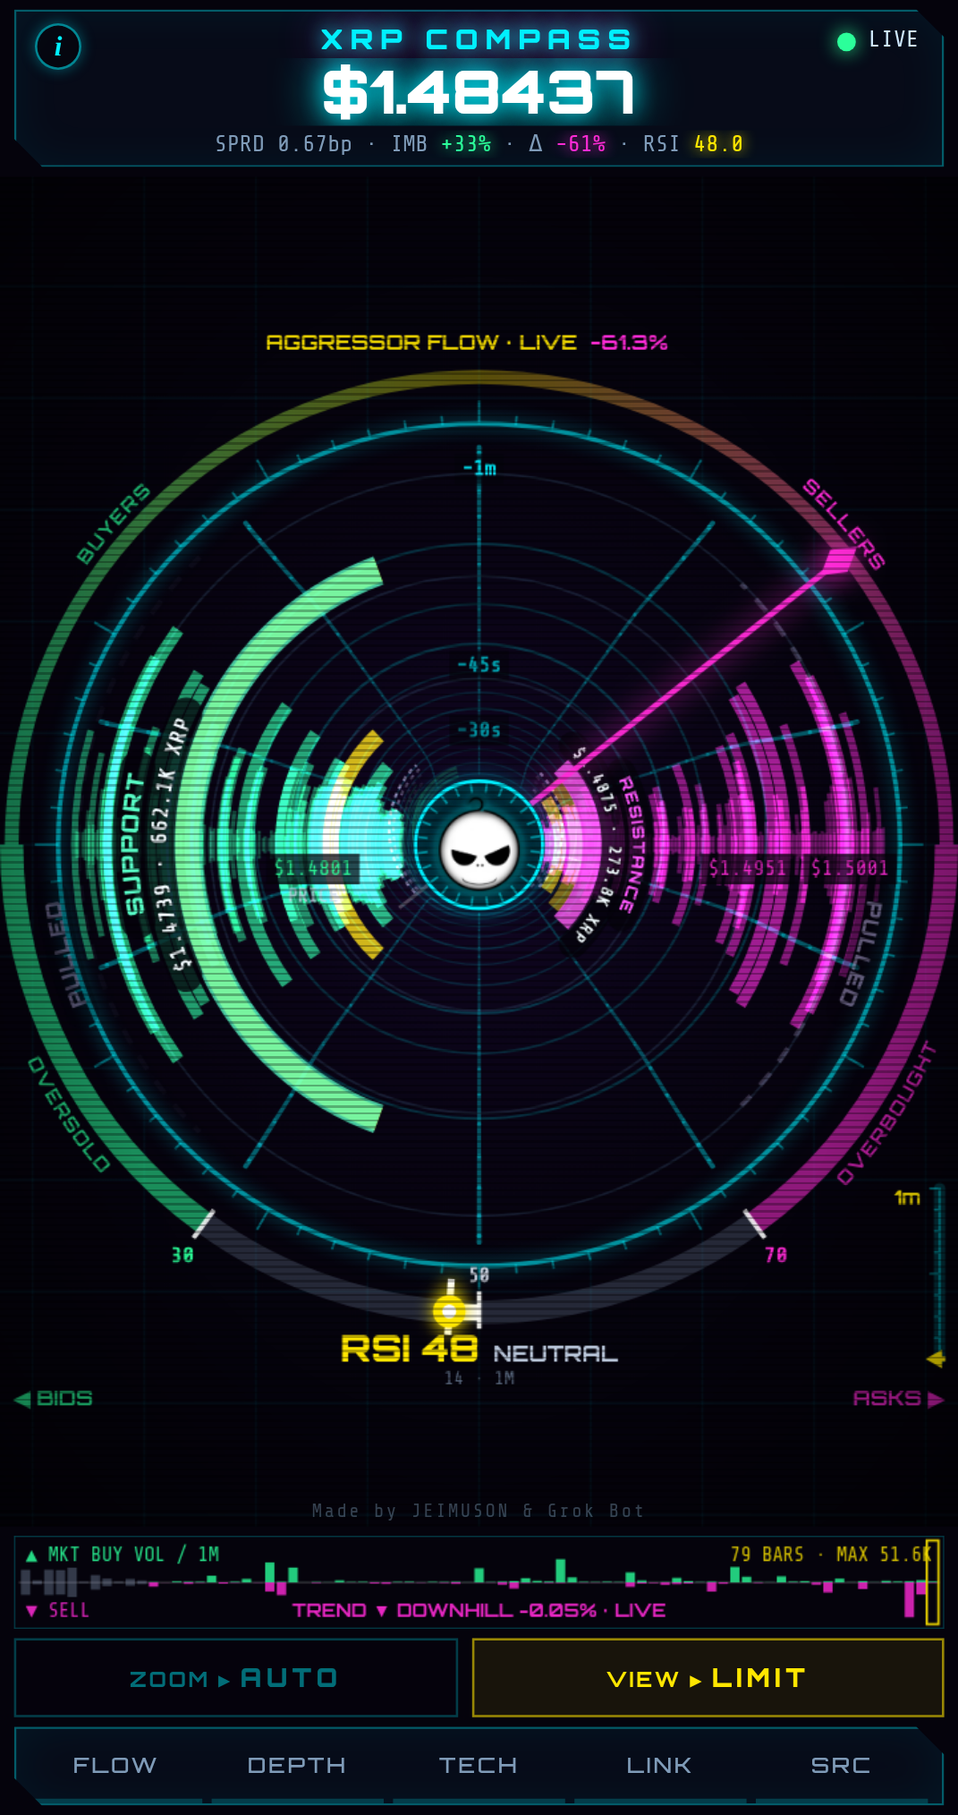
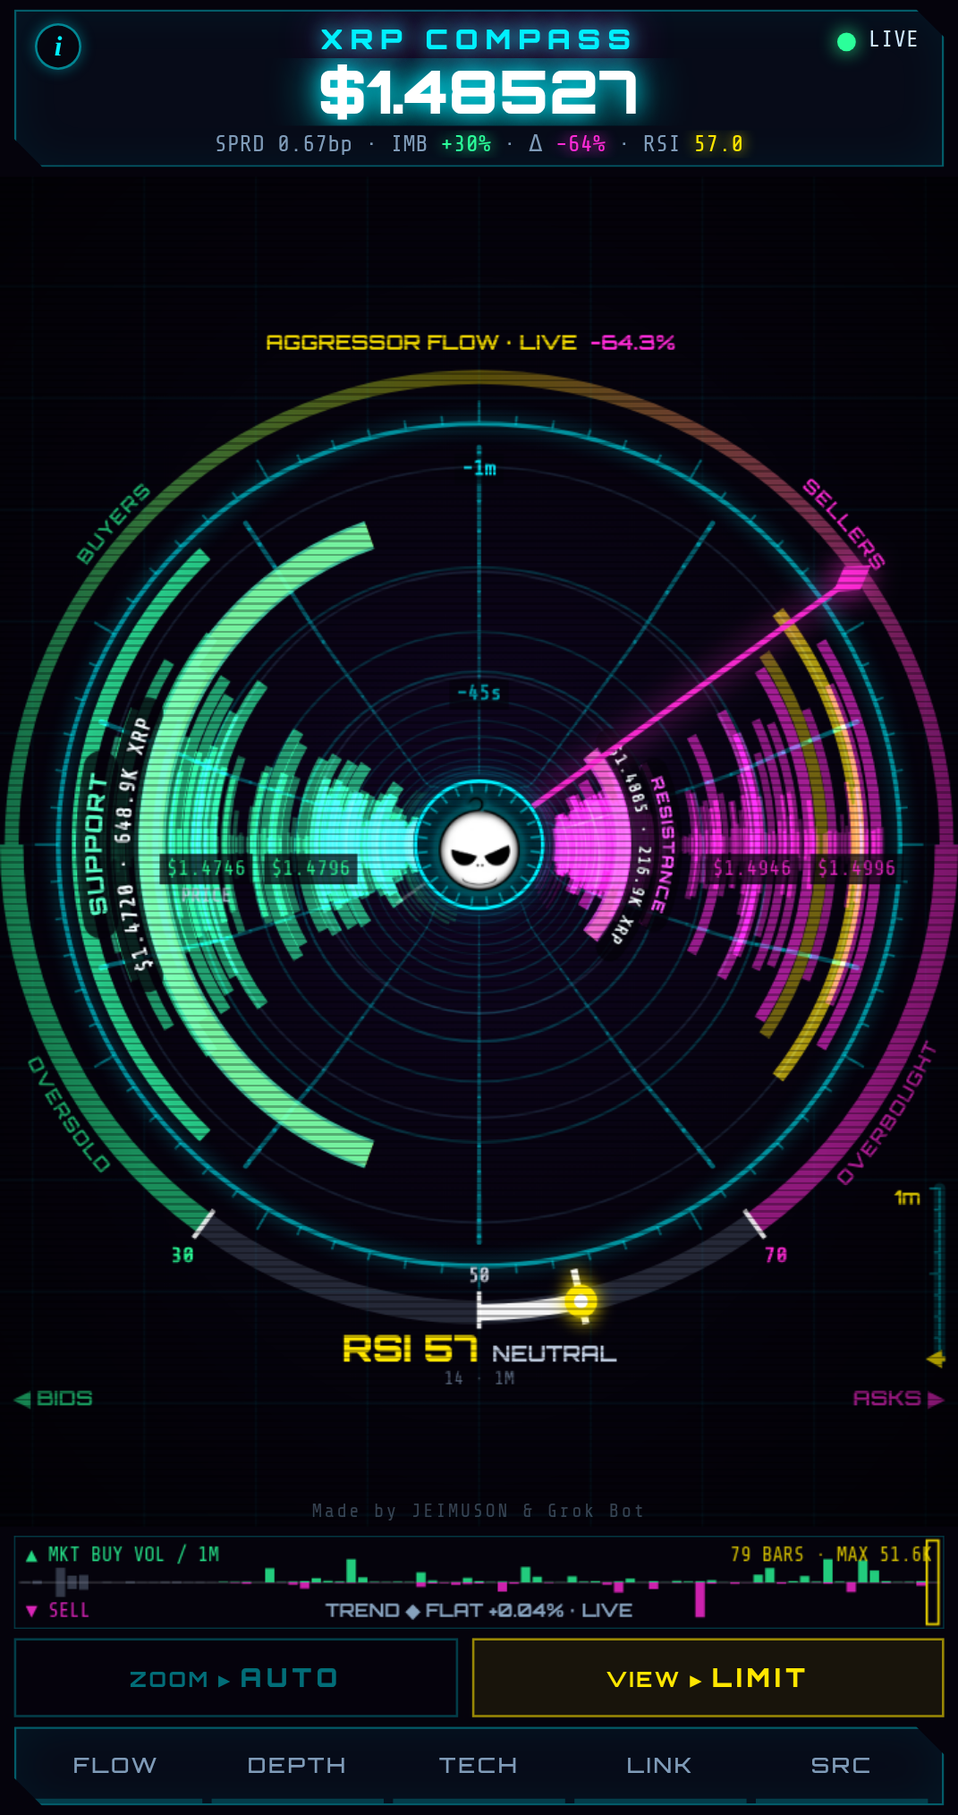
MARKET trail style toggle: line / candles / heikin ashi (build 20261002-2007)

diff --git a/index.html b/index.html
@@ -3,7 +3,7 @@
 <head>
 <meta charset="utf-8">
 <meta http-equiv="Cache-Control" content="no-cache, no-store, must-revalidate"><meta http-equiv="Pragma" content="no-cache"><meta http-equiv="Expires" content="0">
-<script>window.OFC_BUILD='20261002-1956';(function(){try{if(!/^https?:/.test(location.protocol))return;fetch(location.pathname+'?_='+Date.now(),{cache:'no-store'}).then(r=>r.text()).then(t=>{const m=t.match(/OFC_BUILD='([^']+)'/);if(m&&m[1]!==window.OFC_BUILD&&sessionStorage.getItem('ofcB')!==m[1]){sessionStorage.setItem('ofcB',m[1]);location.replace(location.pathname+'?v='+m[1]+location.hash);}}).catch(()=>{});}catch(e){}})();</script>
+<script>window.OFC_BUILD='20261002-2007';(function(){try{if(!/^https?:/.test(location.protocol))return;fetch(location.pathname+'?_='+Date.now(),{cache:'no-store'}).then(r=>r.text()).then(t=>{const m=t.match(/OFC_BUILD='([^']+)'/);if(m&&m[1]!==window.OFC_BUILD&&sessionStorage.getItem('ofcB')!==m[1]){sessionStorage.setItem('ofcB',m[1]);location.replace(location.pathname+'?v='+m[1]+location.hash);}}).catch(()=>{});}catch(e){}})();</script>
 <meta name="viewport" content="width=device-width,initial-scale=1,viewport-fit=cover,user-scalable=no">
 <meta name="theme-color" content="#05030c">
 <meta name="color-scheme" content="dark">
@@ -71,6 +71,7 @@ body.hublogo #top .logo{display:none}   /* mobile: logo lives in the compass hub
 #win button.zauto{flex:1.5}.zpill #win button.zauto{display:none !important}#win button.tdir#tdir{flex:1.6}
 #win button.zauto:not(.lit){color:rgba(0,240,255,.45);border-color:rgba(0,240,255,.25);background:rgba(5,3,12,.75)}
 #win button.zauto.lit{box-shadow:0 0 10px rgba(255,230,0,.35)}
+#win button.tdir#tsty{flex:1.25;font-size:8px}#win button#tsty i{display:block;font-style:normal;margin-bottom:3px;opacity:.8}#win button.tdir#tsty b{letter-spacing:1px}body:not(.mkt) #win button#tsty{display:none}
 #win button.on{background:rgba(0,240,255,.22);color:#fff;box-shadow:0 0 12px var(--cy),inset 0 0 10px rgba(0,240,255,.4)}
 #sheet>.panel{padding:0 6px}
 #tabs{display:flex;gap:4px;margin:0}
@@ -103,7 +104,7 @@ body.hublogo #top .logo{display:none}   /* mobile: logo lives in the compass hub
  #app{padding:calc(var(--st) + 6px) calc(env(safe-area-inset-right,0px) + 8px) calc(var(--sb) + 6px) calc(env(safe-area-inset-left,0px) + 8px)}
  #top,#vcv,#sheet{margin:0}
  #win{flex-wrap:wrap;row-gap:6px}
- #win button.zauto,#win button.tdir#tdir{flex:1 1 40%}
+ #win button.zauto,#win button.tdir#tdir,#win button.tdir#tsty{flex:1 1 40%}#win button.tdir#tsty{font-size:9px}#win button#tsty i{display:inline;margin:0}#win button.tdir#tsty b{letter-spacing:2px}
  #vcv{order:-1;flex:0 0 clamp(130px,10.5vw,270px);width:clamp(130px,10.5vw,270px) !important;height:auto;align-self:stretch;min-height:0}
  #pages{display:block;position:static;max-height:none;margin-top:6px}
  #sheetClose{display:none}
@@ -164,7 +165,8 @@ body.hublogo #top .logo{display:none}   /* mobile: logo lives in the compass hub
  <li>One lap = the time window (15–60s, shown on the zoom bar).</li>
  <li>Trail swings <b>out</b> = price up, <b>in</b> = price down.</li>
  <li><b class="gr">Green</b> = buyers, <b class="rd">red</b> = sellers. Thicker trail = more volume.</li>
- <li><b>Flares</b> mark the spots with the heaviest trading.</li></ul>
+ <li><b>Flares</b> mark the spots with the heaviest trading.</li>
+ <li><b>TRAIL ▸ LINE / CANDLES / HEIKIN ASHI</b> switches the spiral between the flow line and candles along the same path (each candle = window/20; body = open→close, wick = high/low; green up, red down; Heikin Ashi smooths them).</li></ul>
  <h3>LIMIT VIEW · ORDER-BOOK WALLS</h3>
  <ul><li>Arcs are <b>walls</b> of waiting orders: <b class="gr">buyers left</b>, <b class="rd">sellers right</b>.</li>
  <li>Distance from the middle = distance from the current price.</li>
@@ -193,7 +195,7 @@ body.hublogo #top .logo{display:none}   /* mobile: logo lives in the compass hub
 </div>
 
 <div id="sheet">
- <div id="win"><button id="zauto" class="tdir zauto" title="auto zoom on/off">ZOOM ▸ <b>AUTO</b></button><button id="tdir" class="tdir" title="view mode: limit orders / market orders">VIEW ▸ <b>LIMIT</b></button></div>
+ <div id="win"><button id="zauto" class="tdir zauto" title="auto zoom on/off">ZOOM ▸ <b>AUTO</b></button><button id="tdir" class="tdir" title="view mode: limit orders / market orders">VIEW ▸ <b>LIMIT</b></button><button id="tsty" class="tdir" title="MARKET trail style: line / candles / heikin ashi"><i>TRAIL ▸</i> <b>LINE</b></button></div>
  <div class="panel">
   <div id="tabs"><button data-p="0" class="on">FLOW</button><button data-p="1">DEPTH</button><button data-p="2">TECH</button><button data-p="3">LINK</button><button data-p="4">SRC</button></div>
  </div>
@@ -717,8 +719,12 @@ try{let v=localStorage.getItem('ofc.view');
   if(!v){const old=localStorage.getItem('ofc.timeDir');v=old==='out'?'market':'limit';localStorage.setItem('ofc.view',v);localStorage.removeItem('ofc.timeDir');}
   VIEW=v==='market'?'market':'limit';}catch(e){}
 let INBOUND=VIEW==='limit';
-function syncDir(){INBOUND=VIEW==='limit';$('tdir').innerHTML=`VIEW ▸ <b>${VIEW==='limit'?'LIMIT':'MARKET'}</b>`;trailDirty=true;}
+function syncDir(){INBOUND=VIEW==='limit';document.body.classList.toggle('mkt',VIEW==='market');$('tdir').innerHTML=`VIEW ▸ <b>${VIEW==='limit'?'LIMIT':'MARKET'}</b>`;trailDirty=true;}
 $('tdir').onclick=()=>{VIEW=VIEW==='limit'?'market':'limit';try{localStorage.setItem('ofc.view',VIEW);}catch(e){}syncDir();};syncDir();
+let TSTY=(()=>{try{const v=localStorage.getItem('ofc.trail');return ['line','candles','ha'].includes(v)?v:'line';}catch(e){return 'line';}})();   // MARKET trail style
+function syncTsty(){const n={line:'LINE',candles:'CANDLES',ha:innerWidth<560?'H-ASHI':'HEIKIN ASHI'}[TSTY];$('tsty').innerHTML=`<i>TRAIL ▸</i> <b>${n}</b>`;}
+function setTsty(v){TSTY=v;try{localStorage.setItem('ofc.trail',TSTY);}catch(e){}syncTsty();}
+$('tsty').onclick=()=>setTsty(TSTY==='line'?'candles':TSTY==='candles'?'ha':'line');syncTsty();addEventListener('resize',syncTsty);
 const depthOf=age=>INBOUND?Math.max(0,(LWIN-age)*HIST_SEC/LWIN):age;   // LIMIT: newest at the vanishing point, LWIN-old at the ring   // tunnel depth in seconds
 
 const COL={bid:[43,255,154],ask:[255,43,214],cy:[0,240,255],yl:[255,230,0]};
@@ -1453,14 +1459,14 @@ function drawTrail(now){
     BSP=Math.max(mid*0.00002,0.6*(dv[Math.floor(dv.length*0.9)]||0));}   // AUTO: ~90th-pct move maps to ~1.6x amplitude (tanh softens outliers)
   const WIG=[];
   const AMAX=Math.max(1,Math.min(trail.length-1+lag,MWIN)), DZ=HIST_SEC/MWIN, KO=0.985, sMin=FOCAL/(FOCAL+AMAX*DZ);
-  const pt=f=>{const age=f===0?0:f+lag,dz=age*DZ,p=proj(dz),s=p.s,sT=FOCAL/(FOCAL+dz+TURN*DZ);
+  const pt=(f,PX)=>{const age=f===0?0:f+lag,dz=age*DZ,p=proj(dz),s=p.s,sT=FOCAL/(FOCAL+dz+TURN*DZ);
     const u=Math.max(0,Math.min(1,(s-sMin)/(1-sMin)))*Math.min(1,(AMAX-age)/6+0.0);
     // radial wiggle = (trade price - newest trade) / bulge scale, amplitude scales with perspective; soft (tanh) limit ~0.55 coil gap
-    const raw=(prAt(f)-P0)/BSP*RMAX*KO*s*0.22, L=Math.max(2,0.55*RMAX*KO*(s-sT)), off=L*Math.tanh(raw/L);
+    const raw=((PX==null?prAt(f):PX)-P0)/BSP*RMAX*KO*s*0.22, L=Math.max(2,0.55*RMAX*KO*(s-sT)), off=L*Math.tanh(raw/L);
     const r=RMAX*KO*s+off, th=ang(age);   // head (f=0) = newest trade -> off 0 -> rides the outer ring
     let x=p.x+Math.cos(th)*r, y=p.y+Math.sin(th)*r;
     {const dx=x-CX,dy=y-CY,d=Math.hypot(dx,dy),m=RMAX*0.995,k0=0.9*m;if(d>k0){const dd=k0+(m-k0)*Math.tanh((d-k0)/(m-k0));x=CX+dx*dd/d;y=CY+dy*dd/d;}}   // soft outer edge
-    if(WIG.length<4000)WIG.push(off); if(f===3||f===8)(window.__ofcR=window.__ofcR||{})['o'+f]=off;
+    if(PX==null){if(WIG.length<4000)WIG.push(off); if(f===3||f===8)(window.__ofcR=window.__ofcR||{})['o'+f]=off;}
     return {x,y,s,u};};
   const SUB=MWIN<=20?10:MWIN<=45?6:MWIN<=90?4:3, sub=a=>{const o=[];for(let j=0;j<=SUB;j++)o.push(pt(a+j/SUB));return o;};
   const P=[];for(let a=0;a<=NW;a++)P.push(pt(a));
@@ -1475,12 +1481,12 @@ function drawTrail(now){
   // centreline spine: thin continuous track that fades into the vanishing point
   ctx.lineWidth=1;
   const S=[];for(let a=0;a<P.length-1;a++)S.push(sub(a));
-  for(const [lw,al] of (LOW?[[10,0.10],[4.5,0.16],[1.6,0.75]]:[[14,0.07],[8,0.12],[4,0.18],[1.6,0.75]])){ctx.lineWidth=lw*Math.max(0.8,RMAX/400);
+  for(const [lw,al] of (TSTY!=='line'?[[6,0.07],[1.4,0.38]]:LOW?[[10,0.10],[4.5,0.16],[1.6,0.75]]:[[14,0.07],[8,0.12],[4,0.18],[1.6,0.75]])){ctx.lineWidth=lw*Math.max(0.8,RMAX/400);
     for(let a=0;a<S.length;a++){const q=S[a];ctx.strokeStyle=`rgba(0,240,255,${(al*Math.pow(P[a].u,0.8)).toFixed(3)})`;
       ctx.beginPath();ctx.moveTo(q[0].x,q[0].y);for(let j=1;j<q.length;j++)ctx.lineTo(q[j].x,q[j].y);ctx.stroke();}}
   // volume ribbon: colour = buy/sell dominance, width = volume; thins and fades with depth
   ctx.globalCompositeOperation='lighter';
-  for(let a=P.length-2;a>=0;a--){const b=trail[a],v=b.bs+b.ss;if(v<=0)continue;
+  if(TSTY==='line')for(let a=P.length-2;a>=0;a--){const b=trail[a],v=b.bs+b.ss;if(v<=0)continue;
     const rel=Math.sqrt(v/vref),c=mixCol((b.bs-b.ss)/v),p0=P[a],p1=P[a+1],u=p0.u;if(u<=0.01)continue;
     const ht=hot[a],LW=(2.4+RMAX*0.07*rel+RMAX*0.05*ht)*(0.12+0.88*u);
     {const q=S[a];ctx.shadowBlur=0;ctx.strokeStyle=rgba(c,(0.16*Math.pow(u,0.9)).toFixed(3));ctx.lineWidth=LW*2.4+6*(0.3+0.7*u);ctx.beginPath();ctx.moveTo(q[0].x,q[0].y);for(let j=1;j<q.length;j++)ctx.lineTo(q[j].x,q[j].y);ctx.stroke();}   // wide soft glow underlay
@@ -1488,6 +1494,32 @@ function drawTrail(now){
     if(Q>0&&(rel>0.25||ht>0.3)&&u>0.3){ctx.shadowColor=rgba(c,1);ctx.shadowBlur=(18*rel+26*ht*(0.7+0.3*pulse))*u;}else ctx.shadowBlur=0;
     {const q=S[a];ctx.beginPath();ctx.moveTo(q[0].x,q[0].y);for(let j=1;j<q.length;j++)ctx.lineTo(q[j].x,q[j].y);ctx.stroke();}}
   ctx.shadowBlur=0;
+  // CANDLES / HEIKIN ASHI trail: buckets of window/20 (fixed time boundaries) laid along the same spiral path; body runs radially
+  // open->close and the wick high->low on the spiral's own price scale (pt(f,price)), so one lap still = the window
+  if(TSTY!=='line'){const Bk=Math.max(0.25,MWIN/20),ph=(dn/1000)%Bk||Bk,NB=Math.ceil(Math.max(0,AMAX-ph)/Bk)+1,tot=NB+(TSTY==='ha'?12:0),t0=dn-(ph+(tot-1)*Bk)*1000;
+    const C=[];for(let k=0;k<tot;k++)C.push({o:null,h:-Infinity,l:Infinity,c:null});
+    for(let i=trades.length-1;i>=0;i--){const t=trades[i];if(t.t<t0)break;const ag=(dn-t.t)/1000;if(ag<0)continue;const k=ag<=ph?0:Math.ceil((ag-ph)/Bk);if(k>=tot)continue;const b=C[k];
+      if(b.c==null)b.c=t.px;b.o=t.px;if(t.px>b.h)b.h=t.px;if(t.px<b.l)b.l=t.px;}   // newest->oldest: first seen = close, last seen = open
+    {let pc=null;for(let k=tot-1;k>=0;k--){const b=C[k];if(b.c==null){if(pc!=null){b.o=b.c=b.h=b.l=pc;}}else pc=b.c;}}   // quiet bucket = flat doji at the last close
+    if(TSTY==='ha'){let po=null,pq=null;for(let k=tot-1;k>=0;k--){const b=C[k];if(b.c==null)continue;   // standard Heikin Ashi on the same buckets
+      const hc=(b.o+b.h+b.l+b.c)/4,ho=po==null?(b.o+b.c)/2:(po+pq)/2;b.h=Math.max(b.h,ho,hc);b.l=Math.min(b.l,ho,hc);b.o=ho;b.c=hc;po=ho;pq=hc;}}
+    const sc=Math.max(0.8,RMAX/400);let nd=0;ctx.globalCompositeOperation='source-over';
+    for(let k=Math.min(NB,tot)-1;k>=0;k--){const b=C[k];if(b.c==null)continue;const a0=k===0?0:ph+(k-1)*Bk,a1=Math.min(AMAX,k===0?ph:ph+k*Bk);if(a1-a0<0.04)continue;
+      const g=(a1-a0)*0.13,f0=a0+g-lag,f1=a1-g-lag,fm=(a0+a1)/2-lag,u=pt(fm,b.c).u;if(u<=0.02)continue;
+      const up=b.c>=b.o,col=up?COL.bid:[255,59,107],hi=[Math.min(255,col[0]+90),Math.min(255,col[1]+90),Math.min(255,col[2]+90)],uu=Math.min(1,0.25+Math.pow(u,0.7));
+      const E1=[pt(f0,b.o),pt(fm,b.o),pt(f1,b.o)],E2=[pt(f1,b.c),pt(fm,b.c),pt(f0,b.c)],wh=pt(fm,b.h),wl=pt(fm,b.l);
+      ctx.shadowBlur=0;ctx.strokeStyle=rgba(hi,(0.9*uu).toFixed(3));ctx.lineWidth=Math.max(1.2,1.6*sc*(0.45+0.55*u));ctx.beginPath();ctx.moveTo(wh.x,wh.y);ctx.lineTo(wl.x,wl.y);ctx.stroke();   // wick
+      const thick=Math.hypot(E1[1].x-E2[1].x,E1[1].y-E2[1].y);
+      {const ob=[...E1,...E2];ctx.globalCompositeOperation='lighter';ctx.strokeStyle=rgba(col,(0.16*uu).toFixed(3));ctx.lineWidth=Math.max(5,9*sc*(0.4+0.6*u));ctx.beginPath();ctx.moveTo(ob[0].x,ob[0].y);for(const p of ob.slice(1))ctx.lineTo(p.x,p.y);ctx.closePath();ctx.stroke();ctx.globalCompositeOperation='source-over';}   // soft glow band
+      if(Q>0&&u>0.2){ctx.shadowColor=rgba(col,0.95);ctx.shadowBlur=(6+10*u)*sc;}
+      if(thick<3){ctx.lineCap='butt';ctx.strokeStyle=rgba(hi,(0.95*uu).toFixed(3));ctx.lineWidth=Math.max(3,4.5*sc*(0.45+0.55*u));ctx.beginPath();ctx.moveTo(E1[0].x,E1[0].y);ctx.lineTo(E1[1].x,E1[1].y);ctx.lineTo(E1[2].x,E1[2].y);ctx.stroke();ctx.lineCap='round';}   // doji = solid bar along the spiral
+      else{const path=()=>{ctx.beginPath();ctx.moveTo(E1[0].x,E1[0].y);for(const p of E1.slice(1))ctx.lineTo(p.x,p.y);for(const p of E2)ctx.lineTo(p.x,p.y);ctx.closePath();};
+        ctx.fillStyle=`rgba(4,8,18,${(0.85*uu).toFixed(3)})`;path();ctx.fill();ctx.shadowBlur=0;
+        ctx.fillStyle=rgba(col,((up?0.78:0.72)*uu).toFixed(3));path();ctx.fill();
+        ctx.strokeStyle=rgba(hi,(0.95*uu).toFixed(3));ctx.lineWidth=Math.max(1.2,1.5*sc*(0.5+0.5*u));path();ctx.stroke();}
+      nd++;if(k===0)window.__ofcC={n:0,o:b.o,h:b.h,l:b.l,c:b.c,B:Bk};}
+    if(window.__ofcC)window.__ofcC.n=nd;
+    ctx.shadowBlur=0;ctx.globalCompositeOperation='lighter';}
   // bloom + twinkling sparks where the trail crosses the most-traded levels
   TRHOT=[];
   for(let a=1;a<P.length;a++){const ht=hot[a],p=P[a];if(ht<0.3||p.u<0.08)continue;const b=trail[a],v=b.bs+b.ss,c=v>0?mixCol((b.bs-b.ss)/v):COL.yl;
@@ -1703,7 +1735,7 @@ function frame(){
 connect();seedREST();
 requestAnimationFrame(frame);
 document.addEventListener('visibilitychange',()=>{if(!document.hidden&&(!ws||ws.readyState>1)){backoff=1000;connect();}});
-window.__ofc={simEat(ms,kind,hold,px){EAT={t0:Date.now(),ms,kind:kind||'eat',hold:hold==null?0:hold,px:px||0,q0:0,lq:null};},get spoof(){return {n:{...SPF.n},trk:SPF.trk.size,ev:SPF.ev.slice(-6).map(o=>({k:o.kind,s:o.side,px:o.px,q0:+o.q0.toFixed(1),q1:+o.q1.toFixed(1),ratio:o.ratio,spoof:o.spoof,big:o.big,ven:o.ven}))}},get eat(){const n=performance.now();return EAT&&{px:EAT.px,q0:EAT.q0,ref:REFQ,cp:history.filter((h,i)=>i%8===0&&(n-h.t)/1000<=LWIN).map(h=>{const e=h.b.find(x=>x[0]===EAT.px);return e?[Math.round((n-h.t)/1000),+levelSpan(e[1],REFQ||h.maxq).toFixed(3)]:null;}).filter(Boolean)}},get mt(){return {w:+MT.w.toFixed(1),q:+MT.q.toFixed(2),z:+MT.z.toFixed(2),sg:MT.sg,burst:burst.on}},get lt(){return {w:+LT.w.toFixed(1),rho:+LT.rho.toFixed(2),lwin:+LWIN.toFixed(1),burst:burst.on}},get keyWalls(){return VIEW==='limit'?{...KEYW,nSig:{bid:topWalls.bid.length,ask:topWalls.ask.length},marks:PLBL.map(q=>q.txt)}:null},simFlat(){SIM={on:true,base:mid,t0:0,dir:0,amp:0,ramp:1};},simMove(dir,frac,ramp){SIM.t0=Date.now();SIM.dir=dir;SIM.amp=frac*SIM.base;SIM.ramp=ramp;},get resp(){const v=proj(HIST_SEC),m=proj(HIST_SEC*0.4);return {tw:+(TWIST_MAX*VSP.w*180/Math.PI).toFixed(2),vp:+(v.y-CY).toFixed(1),vm:+(m.y-CY).toFixed(1),o3:+((window.__ofcR||{}).o3||0).toFixed(1),o8:+((window.__ofcR||{}).o8||0).toFixed(1),mw:+MWIN.toFixed(1),dr:dispRange,pr:pathRef}},get bp(){return BP.length},autoOff(){pillT=0;if(rangeAuto)pillTap();},get dr(){return dispRange},get hubLogo(){return !WIDE&&LOGO.complete&&LOGO.naturalWidth>0},get hdrLogo(){const e=document.querySelector('#top .logo');return !!e&&getComputedStyle(e).display!=='none'},get flares(){return VIEW==='market'?[...FLR.entries()].map(([k,F])=>{const p=F.dx!=null?{x:F.dx,y:F.dy}:null;return {k,T:F.T,tT:trailT,st:trailStep,w:+F.w.toFixed(2),on:!!F.on,side:F.c===COL.bid?'bid':'ask',x:p?Math.round(p.x):null,y:p?Math.round(p.y):null};}):null},winTo(S){intro=null;setAuto(false);syncZA();let lo=0,hi=1;const f=u=>mWinOf(zR(u));const dec=f(0)>f(1);for(let i=0;i<40;i++){const m=(lo+hi)/2;if((f(m)>S)===dec)lo=m;else hi=m;}rangeFrac=zR((lo+hi)/2);return f((lo+hi)/2);},get vring(){if(VIEW!=='market')return null;const p=proj(HIST_SEC);return {full:+(RMAX*p.s).toFixed(1),r:+(RMAX*p.s).toFixed(1),x:Math.round(p.x),y:Math.round(p.y),R0:Math.round(R0)}},get twist(){return VIEW==='market'?+(TWIST_MAX*VSP.w*180/Math.PI).toFixed(1):0},get spin(){return {w:+VSP.w.toFixed(3),ph:+VSP.ph.toFixed(3)}},zManual(){intro=null;setAuto(false);syncZA();},get burst(){return {...burst,now:Date.now()}},simBurst(usd){const px=trades.length?trades[trades.length-1].px:mid,n=Date.now();for(let k=0;k<8;k++)trades.push({t:n-(7-k)*300,side:k%2?'sell':'buy',qty:usd/8/px,px,v:'kraken'});trailDirty=true;},get auto(){return rangeAuto},zAuto(){intro=null;setAuto(true);syncZA();},zIn(){intro=null;setAuto(false);rangeFrac=zR(1);syncZA();},get mwin(){return +MWIN.toFixed(1)},get lwin(){return +LWIN.toFixed(1)},get prange(){return PRANGE},get disp(){return dispRange},get plbl(){return PLBL.map(q=>q.txt)},get hubTxt(){return mid?hubTxt():null},get head(){return {x:Math.round(TRHEAD.x),y:Math.round(TRHEAD.y),CX,CY,R0:Math.round(R0),RMAX:Math.round(RMAX)}},get logo(){const g=logoGeom();return g&&{x:Math.round(g.x),y:Math.round(g.y),S:g.S,CX,CY,RMAX,W,H,Z:zbarGeom()}},get ven(){return Object.fromEntries(Object.entries(VEN).map(([k,v])=>[k,{st:v.st,share:+v.share.toFixed(3),books:BOOKS.filter(B=>B.v===k).map(B=>({k:B.k,ready:B.ready,n:B.b.size+B.a.size,ck:B.ckOk,ckBad:B.ckBad,resyncs:B.resyncs}))}]))},get src(){return SRC},setSource,get comb(){return {ready:BREADY,mid,bestBid,bestAsk,nb:sortedB.length,na:sortedA.length}},get raw(){return RAW.length},get flow(){const f=flow(30);return {b:Math.round(f.b),s:Math.round(f.s),r:+f.r.toFixed(3)}},get trendW(){return trendWin()},get win(){return winSec},get heatN(){return Object.fromEntries(Object.entries(HEATS).map(([w,H])=>[w,H.m.size]))},get intro(){return intro},book,get mid(){return mid},get ck(){return {ckOk,ckBad,ckLast}},get trades(){return tradeCount},get bubbles(){return bubbles.length},get hist(){return history.length},get ind(){return ind},get candles(){return candles.size},get dir(){return INBOUND?'in':'out'},get view(){return VIEW},get layout(){return {W,H,CX,CY,RMAX,R0,WIDE}},get tunnel(){const far=proj(HIST_SEC);return {FOCAL,farScale:far.s,farY:far.y-CY,dispRange,fitFrac,rangeAuto,RMAX}},zoom(f){setAuto(false);rangeFrac=Math.min(0.08,Math.max(0.0005,rangeFrac*f));},autoZoom(){setAuto(true);},get autoOn(){return rangeAuto},get zgeom(){return zbarGeom()},get conn(){return connState},get fps(){return FPS},get q(){return Q},get rc(){return reconnects},forceDrop(){ws&&ws.close();}};
+window.__ofc={get tsty(){return TSTY},setTsty,get cdl(){return window.__ofcC||null},simEat(ms,kind,hold,px){EAT={t0:Date.now(),ms,kind:kind||'eat',hold:hold==null?0:hold,px:px||0,q0:0,lq:null};},get spoof(){return {n:{...SPF.n},trk:SPF.trk.size,ev:SPF.ev.slice(-6).map(o=>({k:o.kind,s:o.side,px:o.px,q0:+o.q0.toFixed(1),q1:+o.q1.toFixed(1),ratio:o.ratio,spoof:o.spoof,big:o.big,ven:o.ven}))}},get eat(){const n=performance.now();return EAT&&{px:EAT.px,q0:EAT.q0,ref:REFQ,cp:history.filter((h,i)=>i%8===0&&(n-h.t)/1000<=LWIN).map(h=>{const e=h.b.find(x=>x[0]===EAT.px);return e?[Math.round((n-h.t)/1000),+levelSpan(e[1],REFQ||h.maxq).toFixed(3)]:null;}).filter(Boolean)}},get mt(){return {w:+MT.w.toFixed(1),q:+MT.q.toFixed(2),z:+MT.z.toFixed(2),sg:MT.sg,burst:burst.on}},get lt(){return {w:+LT.w.toFixed(1),rho:+LT.rho.toFixed(2),lwin:+LWIN.toFixed(1),burst:burst.on}},get keyWalls(){return VIEW==='limit'?{...KEYW,nSig:{bid:topWalls.bid.length,ask:topWalls.ask.length},marks:PLBL.map(q=>q.txt)}:null},simFlat(){SIM={on:true,base:mid,t0:0,dir:0,amp:0,ramp:1};},simMove(dir,frac,ramp){SIM.t0=Date.now();SIM.dir=dir;SIM.amp=frac*SIM.base;SIM.ramp=ramp;},get resp(){const v=proj(HIST_SEC),m=proj(HIST_SEC*0.4);return {tw:+(TWIST_MAX*VSP.w*180/Math.PI).toFixed(2),vp:+(v.y-CY).toFixed(1),vm:+(m.y-CY).toFixed(1),o3:+((window.__ofcR||{}).o3||0).toFixed(1),o8:+((window.__ofcR||{}).o8||0).toFixed(1),mw:+MWIN.toFixed(1),dr:dispRange,pr:pathRef}},get bp(){return BP.length},autoOff(){pillT=0;if(rangeAuto)pillTap();},get dr(){return dispRange},get hubLogo(){return !WIDE&&LOGO.complete&&LOGO.naturalWidth>0},get hdrLogo(){const e=document.querySelector('#top .logo');return !!e&&getComputedStyle(e).display!=='none'},get flares(){return VIEW==='market'?[...FLR.entries()].map(([k,F])=>{const p=F.dx!=null?{x:F.dx,y:F.dy}:null;return {k,T:F.T,tT:trailT,st:trailStep,w:+F.w.toFixed(2),on:!!F.on,side:F.c===COL.bid?'bid':'ask',x:p?Math.round(p.x):null,y:p?Math.round(p.y):null};}):null},winTo(S){intro=null;setAuto(false);syncZA();let lo=0,hi=1;const f=u=>mWinOf(zR(u));const dec=f(0)>f(1);for(let i=0;i<40;i++){const m=(lo+hi)/2;if((f(m)>S)===dec)lo=m;else hi=m;}rangeFrac=zR((lo+hi)/2);return f((lo+hi)/2);},get vring(){if(VIEW!=='market')return null;const p=proj(HIST_SEC);return {full:+(RMAX*p.s).toFixed(1),r:+(RMAX*p.s).toFixed(1),x:Math.round(p.x),y:Math.round(p.y),R0:Math.round(R0)}},get twist(){return VIEW==='market'?+(TWIST_MAX*VSP.w*180/Math.PI).toFixed(1):0},get spin(){return {w:+VSP.w.toFixed(3),ph:+VSP.ph.toFixed(3)}},zManual(){intro=null;setAuto(false);syncZA();},get burst(){return {...burst,now:Date.now()}},simBurst(usd){const px=trades.length?trades[trades.length-1].px:mid,n=Date.now();for(let k=0;k<8;k++)trades.push({t:n-(7-k)*300,side:k%2?'sell':'buy',qty:usd/8/px,px,v:'kraken'});trailDirty=true;},get auto(){return rangeAuto},zAuto(){intro=null;setAuto(true);syncZA();},zIn(){intro=null;setAuto(false);rangeFrac=zR(1);syncZA();},get mwin(){return +MWIN.toFixed(1)},get lwin(){return +LWIN.toFixed(1)},get prange(){return PRANGE},get disp(){return dispRange},get plbl(){return PLBL.map(q=>q.txt)},get hubTxt(){return mid?hubTxt():null},get head(){return {x:Math.round(TRHEAD.x),y:Math.round(TRHEAD.y),CX,CY,R0:Math.round(R0),RMAX:Math.round(RMAX)}},get logo(){const g=logoGeom();return g&&{x:Math.round(g.x),y:Math.round(g.y),S:g.S,CX,CY,RMAX,W,H,Z:zbarGeom()}},get ven(){return Object.fromEntries(Object.entries(VEN).map(([k,v])=>[k,{st:v.st,share:+v.share.toFixed(3),books:BOOKS.filter(B=>B.v===k).map(B=>({k:B.k,ready:B.ready,n:B.b.size+B.a.size,ck:B.ckOk,ckBad:B.ckBad,resyncs:B.resyncs}))}]))},get src(){return SRC},setSource,get comb(){return {ready:BREADY,mid,bestBid,bestAsk,nb:sortedB.length,na:sortedA.length}},get raw(){return RAW.length},get flow(){const f=flow(30);return {b:Math.round(f.b),s:Math.round(f.s),r:+f.r.toFixed(3)}},get trendW(){return trendWin()},get win(){return winSec},get heatN(){return Object.fromEntries(Object.entries(HEATS).map(([w,H])=>[w,H.m.size]))},get intro(){return intro},book,get mid(){return mid},get ck(){return {ckOk,ckBad,ckLast}},get trades(){return tradeCount},get bubbles(){return bubbles.length},get hist(){return history.length},get ind(){return ind},get candles(){return candles.size},get dir(){return INBOUND?'in':'out'},get view(){return VIEW},get layout(){return {W,H,CX,CY,RMAX,R0,WIDE}},get tunnel(){const far=proj(HIST_SEC);return {FOCAL,farScale:far.s,farY:far.y-CY,dispRange,fitFrac,rangeAuto,RMAX}},zoom(f){setAuto(false);rangeFrac=Math.min(0.08,Math.max(0.0005,rangeFrac*f));},autoZoom(){setAuto(true);},get autoOn(){return rangeAuto},get zgeom(){return zbarGeom()},get conn(){return connState},get fps(){return FPS},get q(){return Q},get rc(){return reconnects},forceDrop(){ws&&ws.close();}};
 })();
 // ---------------- INFO overlay: what am I looking at? (✕ / tap outside / Esc) ----------------
 (function(){const I=document.getElementById('info'),B=document.getElementById('infoBtn');if(!I||!B)return;
